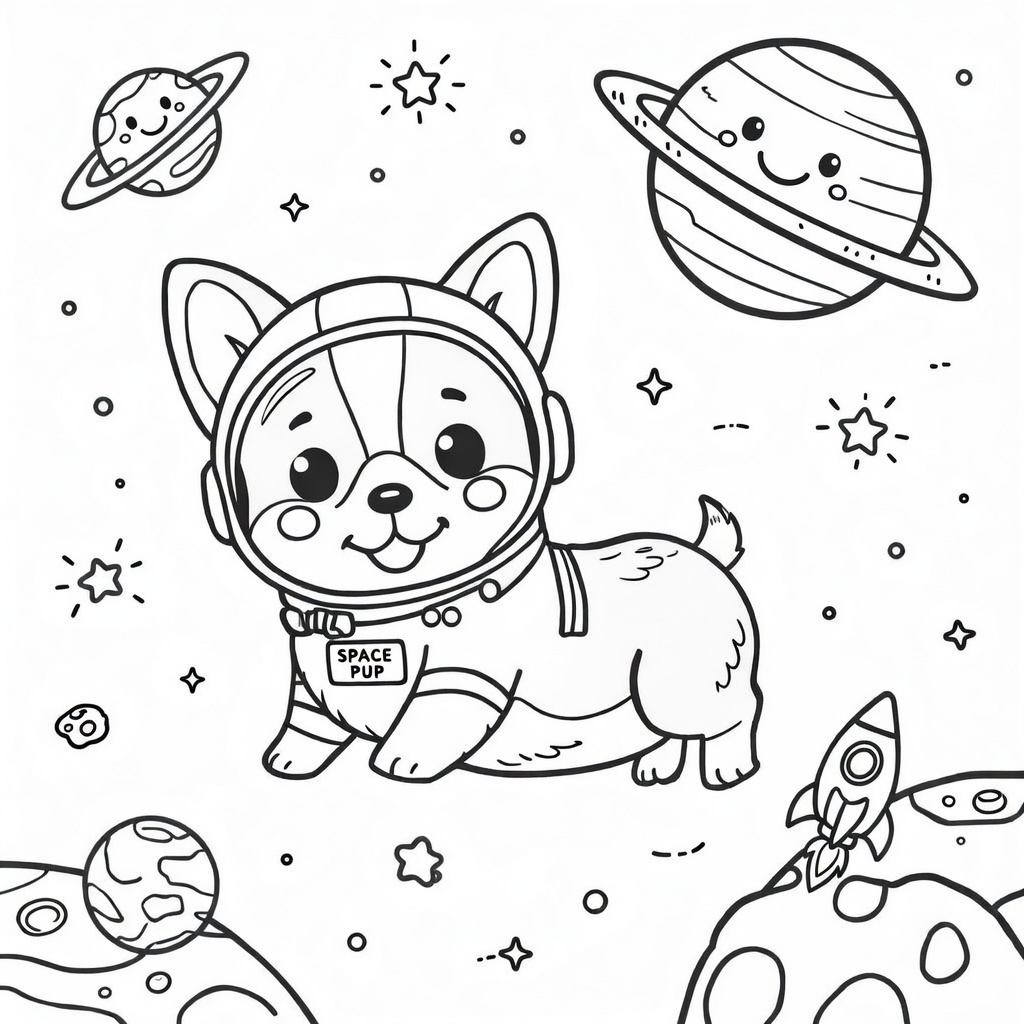
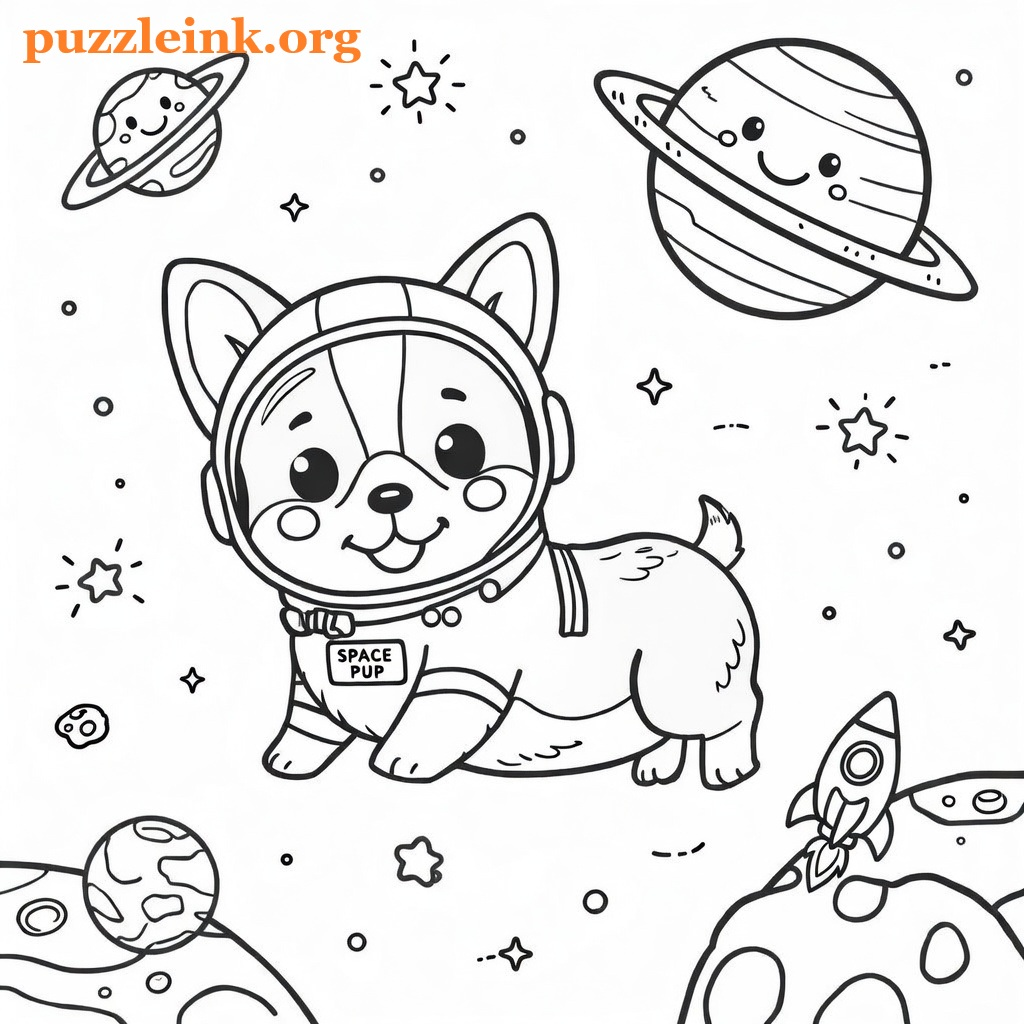
update

Changed region(s): [[0.0, 0.0, 0.375, 0.0625]]

diff --git a/index.html b/index.html
@@ -1112,16 +1112,16 @@
 
       <div class="books-grid">
     <!-- BOOK CARD -->
-    <!-- CORGI1 BOOK -->
-  <div id="corgi-coloring-book" class="book-card reveal"      data-category="kids" data-sub="coloring" data-subsub="corgi" style="transition-delay:0.001s">
+    <!-- CORGI1 BOOK --> <!--ZROBIĆ UPDATE OKŁADKI NA AMAZONOWA -->
+  <div id="corgi-coloring-book" class="book-card reveal" data-category="kids" data-sub="coloring" data-subsub="corgi" style="transition-delay:0.001s">
     <div class="book-card-thumb open-gallery" 
         style="cursor: pointer; background: linear-gradient(145deg, #FFF3CD 0%, #FFD93D 40%, #FF9F43 80%, #FF6B6B 100%);">
       
-      <img src="images/corgi-cover.png" alt="Corgi coloring book for kids ages 4-7" class="thumb-img" loading="lazy" style="width: 100%; height: 100%; object-fit: contain !important;">
-      <span class="thumb-label">Age 4+</span>
+      <img src="https://m.media-amazon.com/images/I/61myRN8XUSL._SL1000_.jpg" alt="Corgi coloring book for kids ages 4-7" class="thumb-img" loading="lazy" style="width: 100%; height: 100%; object-fit: contain !important;">
+      <span class="thumb-label">Age 4-7</span>
 
       <div class="hidden-gallery" style="display:none;">
-        <img src="images/corgi-cover.png" class="modal-slide" alt="Strona 1" loading="lazy">
+        <img src="https://m.media-amazon.com/images/I/61myRN8XUSL._SL1000_.jpg" class="modal-slide" alt="Strona 1" loading="lazy">
         <img src="images/corgi-1.png" class="modal-slide" alt="Strona 2" loading="lazy">
         <img src="images/corgi-2.png" class="modal-slide" alt="Strona 3" loading="lazy">
         <img src="images/corgi-3.png" class="modal-slide" alt="Strona 4" loading="lazy">
@@ -1135,6 +1135,53 @@
       <a href="https://www.amazon.com/dp/B0GRQYHRQK" class="btn-amazon" target="_blank">Buy Now on Amazon</a>
     </div>
   </div>
+
+    <!-- CORGI-EASTER-1 BOOK --> <!--ZROBIĆ UPDATE OKŁADKI NA AMAZONOWA -->
+  <div id="corgi-coloring-book" class="book-card reveal" data-category="kids" data-sub="coloring" data-subsub="corgi" style="transition-delay:0.001s">
+    <div class="book-card-thumb open-gallery" 
+        style="cursor: pointer; background: linear-gradient(145deg, #d7ffcd 0%, #d5ff3d 40%, #ffe343 80%, #ffa16b 100%);">
+      
+      <img src="images/corgi-easter1-cover.png" alt="Corgi Easter coloring book for kids ages 4-8" class="thumb-img" loading="lazy" style="width: 100%; height: 100%; object-fit: contain !important;">
+      <span class="thumb-label">Age 4-8</span>
+
+      <div class="hidden-gallery" style="display:none;">
+        <img src="images/corgi-easter1-cover.png" class="modal-slide" alt="Strona 1" loading="lazy">
+        <img src="images/corgi-easter1-1.png" class="modal-slide" alt="Strona 2" loading="lazy">
+        <img src="images/corgi-easter1-2.png" class="modal-slide" alt="Strona 3" loading="lazy">
+        <img src="images/corgi-easter1-3.png" class="modal-slide" alt="Strona 4" loading="lazy">
+      </div>
+    </div>
+    <div class="book-card-body">
+      <div class="card-genre">🐾 Kids · Animals · Holidays</div>
+      <h4>Kawaii Easter Corgi coloring book</h4>
+      <p>Non-Candy Easter Basket Stuffer for Kids Ages 4-8: Cute Dog Gift for Boys and Girls</p>
+      <a href="https://www.amazon.com/dp/B0GSZYCBHC/" class="btn-amazon" target="_blank">Buy Now on Amazon</a>
+    </div>
+  </div>
+
+  <!-- CORGI-EASTER-2 BOOK --> <!--ZROBIĆ UPDATE OKŁADKI NA AMAZONOWA -->
+  <div id="corgi-coloring-book" class="book-card reveal" data-category="kids" data-sub="coloring" data-subsub="corgi" style="transition-delay:0.001s">
+    <div class="book-card-thumb open-gallery" 
+        style="cursor: pointer; background: linear-gradient(145deg, #d7ffcd 0%, #d5ff3d 40%, #ffe343 80%, #ffa16b 100%);">
+      
+      <img src="images/corgi-easter2-cover.png" alt="Corgi Easter coloring book for kids ages 4-8" class="thumb-img" loading="lazy" style="width: 100%; height: 100%; object-fit: contain !important;">
+      <span class="thumb-label">Age 4+</span>
+
+      <div class="hidden-gallery" style="display:none;">
+        <img src="images/corgi-easter2-cover.png" class="modal-slide" alt="Strona 1" loading="lazy">
+        <img src="images/corgi-easter2-1.png" class="modal-slide" alt="Strona 2" loading="lazy">
+        <img src="images/corgi-easter2-2.png" class="modal-slide" alt="Strona 3" loading="lazy">
+        <img src="images/corgi-easter2-3.png" class="modal-slide" alt="Strona 4" loading="lazy">
+      </div>
+    </div>
+    <div class="book-card-body">
+      <div class="card-genre">🐾 Kids · Animals · Holidays</div>
+      <h4>Kawaii Easter Corgis coloring book</h4>
+      <p>30 Adorable Puppy Designs for Children & Tweens: Perfect Spring Basket Stuffer for Creative Boys and Girls</p>
+      <a href="https://www.amazon.com/Kawaii-Easter-Corgi-coloring-book/dp/B0GSZYCBHC/" class="btn-amazon" target="_blank">Buy Now on Amazon</a>
+    </div>
+  </div>
+
 
   <!-- KIDS SOON BOOK -->
   <div class="book-card reveal" data-category="kids" data-sub="soon" style="transition-delay:0.1s">
